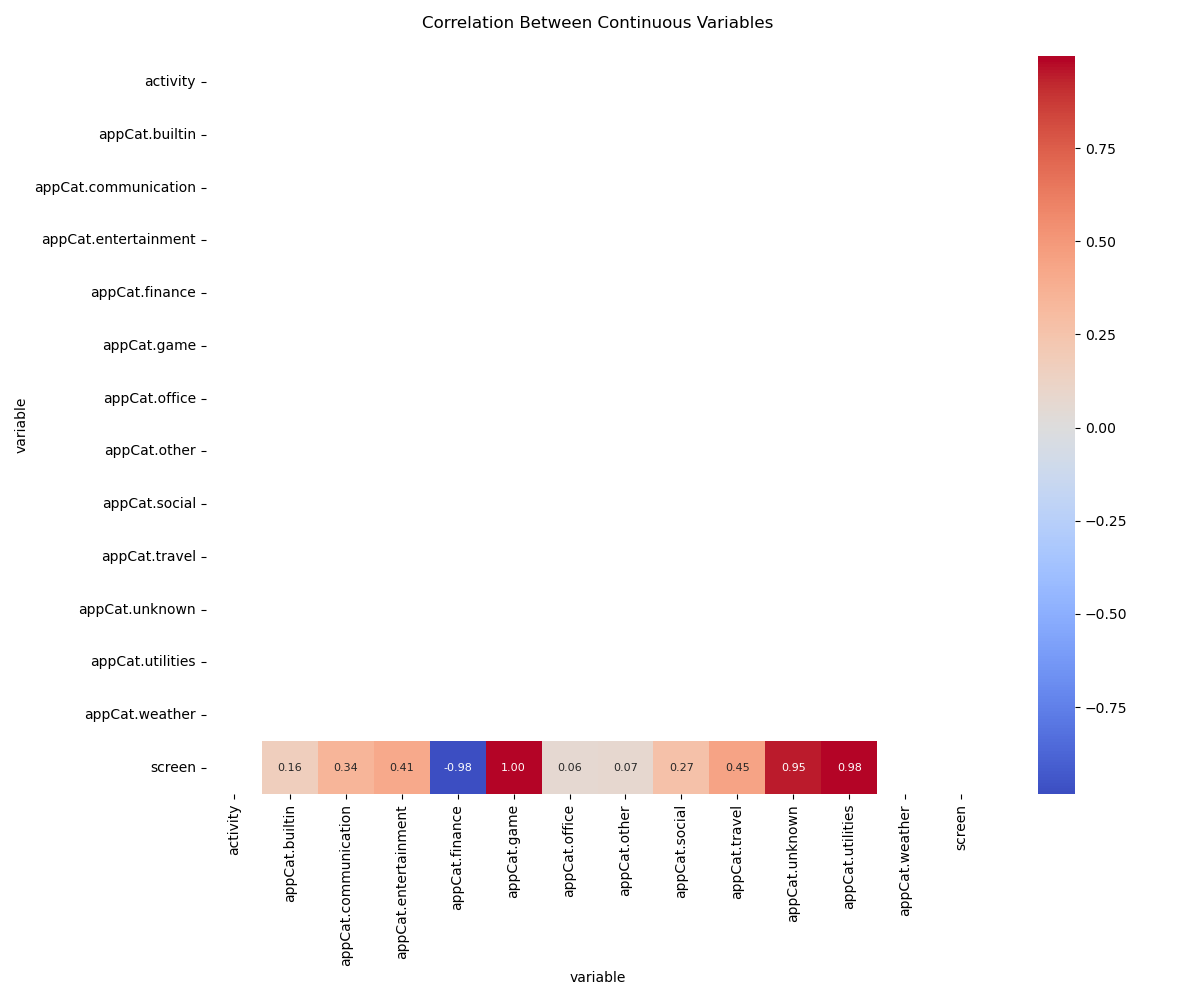
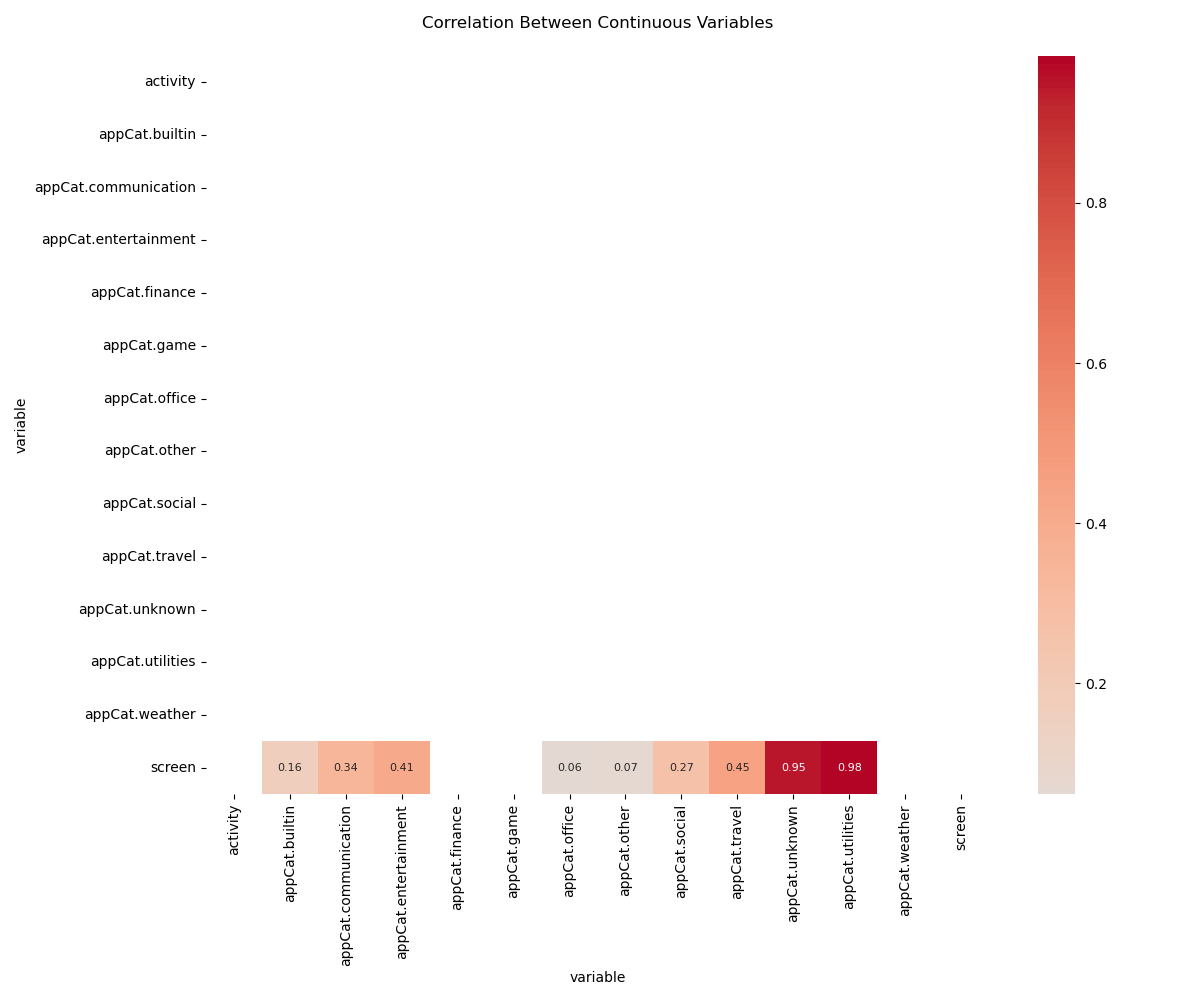
[MOD] correlation matrix

Changed region(s): [[0.8633, 0.093, 0.925, 0.806], [0.3392, 0.744, 0.4625, 0.806]]

diff --git a/Assignment_1/question1.py b/Assignment_1/question1.py
@@ -84,11 +84,28 @@ def plot_distributions(df, variables, plot_dir=PLOT_DIR):
 
 def plot_correlations(df, numeric_vars, plot_dir=PLOT_DIR):
     """Plot correlation matrix for numeric variables"""
-    pivot_df = df[df['variable'].isin(numeric_vars)].pivot_table(
-        index=['id', 'time'], columns='variable', values='value')
+    print(f"Original numeric_vars: {numeric_vars}")
 
-    plt.figure(figsize=(12, 10))
+    filtered_df = df[df['variable'].isin(numeric_vars)]
+    print(f"Unique variables after filtering: {filtered_df['variable'].unique()}")
+
+    pivot_df = filtered_df.pivot(index=['id', 'time'], columns='variable', values='value')
+
+    print(f"Columns in pivoted DataFrame: {pivot_df.columns.tolist()}")
+    print(f"Shape of pivoted DataFrame: {pivot_df.shape}")
+
+    missing_vars = set(numeric_vars) - set(pivot_df.columns)
+    if missing_vars:
+        print(f"Warning: Missing variables in pivoted data: {missing_vars}")
+
+    # Calculate correlations
     corr_matrix = pivot_df.corr()
+    # Check the correlation matrix
+    print("Correlation matrix:")
+    print(corr_matrix)
+
+    # Plotting
+    plt.figure(figsize=(12, 10))
     mask = np.triu(np.ones_like(corr_matrix, dtype=bool))
     sns.heatmap(corr_matrix, mask=mask, annot=True, cmap='coolwarm',
                 center=0, fmt='.2f', annot_kws={'size': 8})
@@ -96,7 +113,6 @@ def plot_correlations(df, numeric_vars, plot_dir=PLOT_DIR):
     plt.tight_layout()
     plt.savefig(f'{plot_dir}/correlation_matrix.png')
     plt.close()
-
 
 def plot_temporal_patterns(df, target_var='mood', plot_dir=PLOT_DIR):
     """Plot temporal patterns for target variable"""
